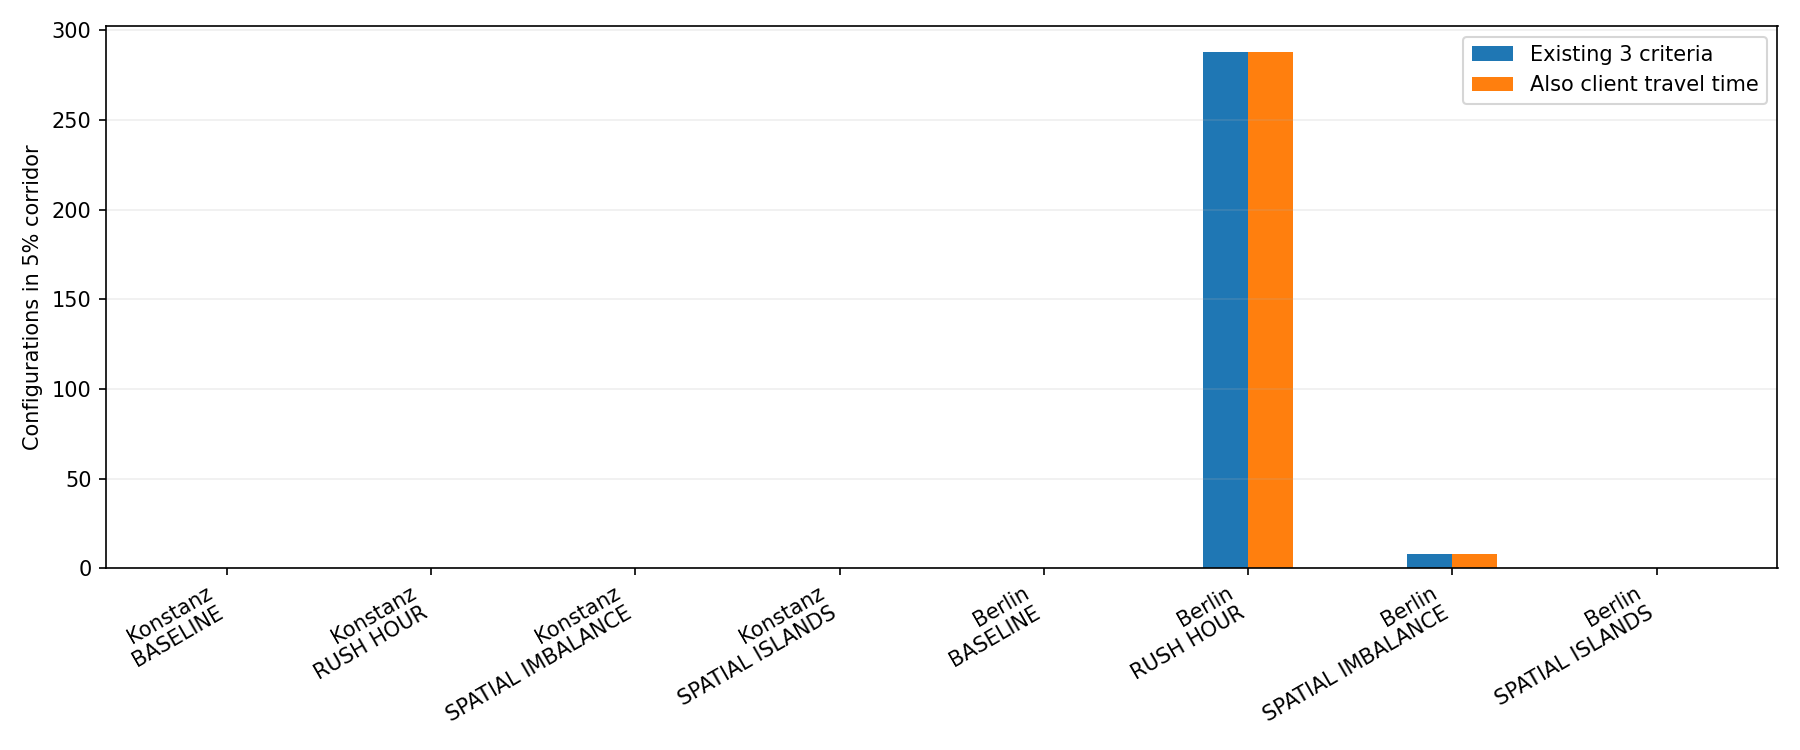
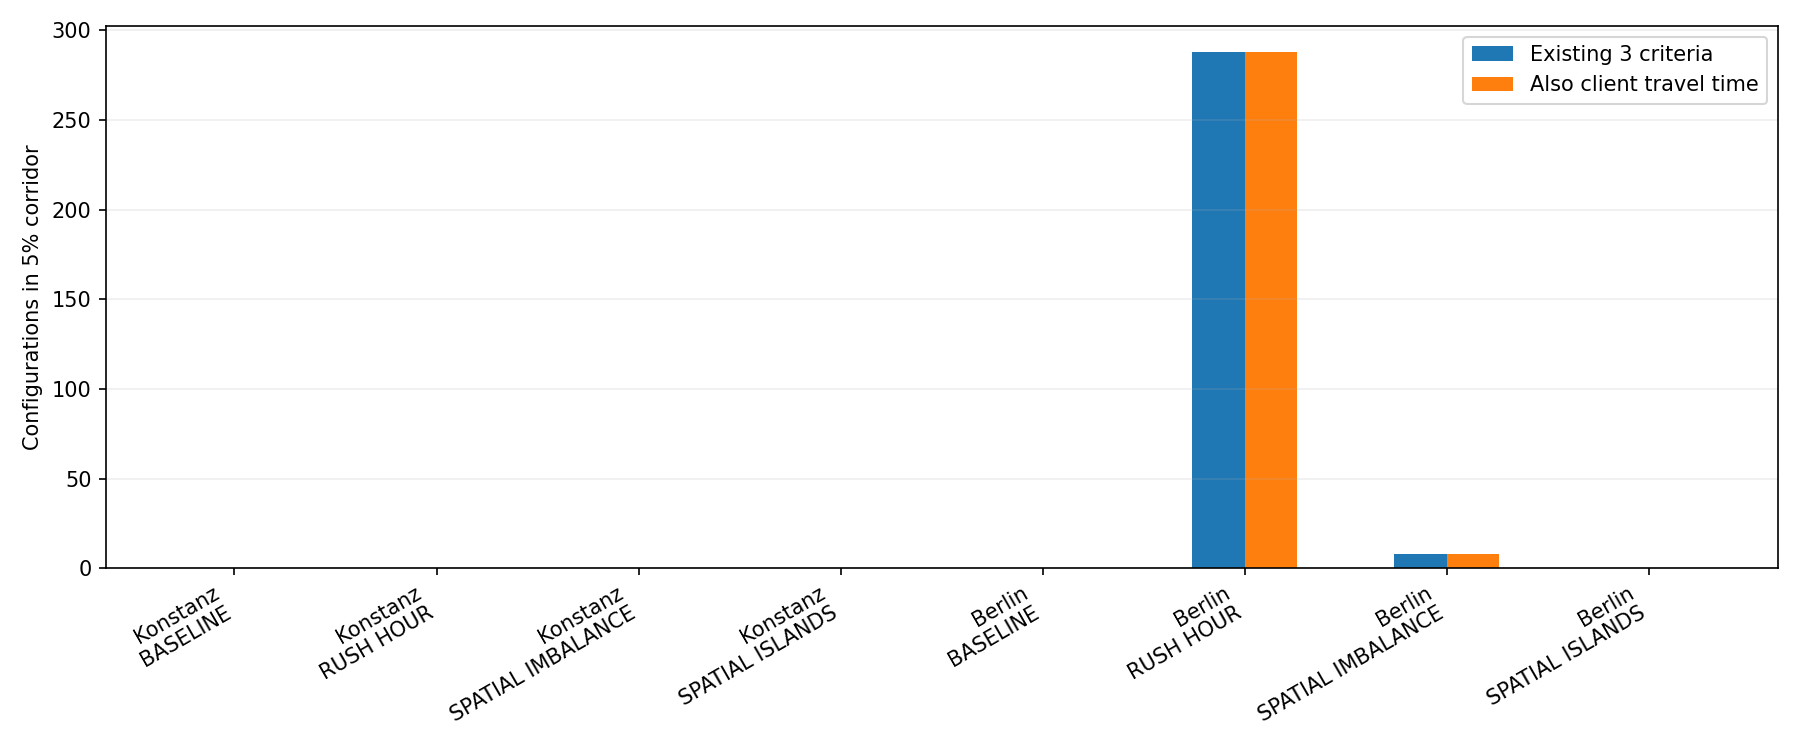
chore: seed stable = 10 seeds

diff --git a/mass-run-results_11.07-konstanz-berlin/analysis/report.html b/mass-run-results_11.07-konstanz-berlin/analysis/report.html
@@ -9042,9 +9042,8 @@
       <th>configurations</th>
       <th>currentPass</th>
       <th>withTravelTime</th>
-      <th>atLeastEightSeeds</th>
       <th>allSeeds</th>
-      <th>withTravelAtLeastEightSeeds</th>
+      <th>withTravelAllSeeds</th>
     </tr>
   </thead>
   <tbody>
@@ -9057,14 +9056,12 @@
       <td>0</td>
       <td>0</td>
       <td>0</td>
-      <td>0</td>
     </tr>
     <tr>
       <td>Konstanz</td>
       <td>RUSH_HOUR</td>
       <td>0</td>
       <td>360</td>
-      <td>0</td>
       <td>0</td>
       <td>0</td>
       <td>0</td>
@@ -9079,7 +9076,6 @@
       <td>0</td>
       <td>0</td>
       <td>0</td>
-      <td>0</td>
     </tr>
     <tr>
       <td>Konstanz</td>
@@ -9090,14 +9086,12 @@
       <td>0</td>
       <td>0</td>
       <td>0</td>
-      <td>0</td>
     </tr>
     <tr>
       <td>Berlin</td>
       <td>BASELINE</td>
       <td>0</td>
       <td>360</td>
-      <td>0</td>
       <td>0</td>
       <td>0</td>
       <td>0</td>
@@ -9112,14 +9106,12 @@
       <td>232</td>
       <td>216</td>
       <td>216</td>
-      <td>216</td>
     </tr>
     <tr>
       <td>Berlin</td>
       <td>SPATIAL_IMBALANCE</td>
       <td>0</td>
       <td>360</td>
-      <td>0</td>
       <td>0</td>
       <td>0</td>
       <td>0</td>
@@ -9134,7 +9126,6 @@
       <td>0</td>
       <td>0</td>
       <td>0</td>
-      <td>0</td>
     </tr>
     <tr>
       <td>Konstanz</td>
@@ -9145,14 +9136,12 @@
       <td>0</td>
       <td>0</td>
       <td>0</td>
-      <td>0</td>
     </tr>
     <tr>
       <td>Konstanz</td>
       <td>RUSH_HOUR</td>
       <td>5</td>
       <td>360</td>
-      <td>0</td>
       <td>0</td>
       <td>0</td>
       <td>0</td>
@@ -9167,14 +9156,12 @@
       <td>0</td>
       <td>0</td>
       <td>0</td>
-      <td>0</td>
     </tr>
     <tr>
       <td>Konstanz</td>
       <td>SPATIAL_ISLANDS</td>
       <td>5</td>
       <td>360</td>
-      <td>0</td>
       <td>0</td>
       <td>0</td>
       <td>0</td>
@@ -9189,7 +9176,6 @@
       <td>0</td>
       <td>0</td>
       <td>0</td>
-      <td>0</td>
     </tr>
     <tr>
       <td>Berlin</td>
@@ -9198,7 +9184,6 @@
       <td>360</td>
       <td>288</td>
       <td>288</td>
-      <td>284</td>
       <td>284</td>
       <td>284</td>
     </tr>
@@ -9211,7 +9196,6 @@
       <td>8</td>
       <td>0</td>
       <td>0</td>
-      <td>0</td>
     </tr>
     <tr>
       <td>Berlin</td>
@@ -9222,14 +9206,12 @@
       <td>0</td>
       <td>0</td>
       <td>0</td>
-      <td>0</td>
     </tr>
     <tr>
       <td>Konstanz</td>
       <td>BASELINE</td>
       <td>10</td>
       <td>360</td>
-      <td>0</td>
       <td>0</td>
       <td>0</td>
       <td>0</td>
@@ -9244,7 +9226,6 @@
       <td>0</td>
       <td>0</td>
       <td>0</td>
-      <td>0</td>
     </tr>
     <tr>
       <td>Konstanz</td>
@@ -9255,14 +9236,12 @@
       <td>0</td>
       <td>0</td>
       <td>0</td>
-      <td>0</td>
     </tr>
     <tr>
       <td>Konstanz</td>
       <td>SPATIAL_ISLANDS</td>
       <td>10</td>
       <td>360</td>
-      <td>0</td>
       <td>0</td>
       <td>0</td>
       <td>0</td>
@@ -9277,14 +9256,12 @@
       <td>0</td>
       <td>0</td>
       <td>0</td>
-      <td>0</td>
     </tr>
     <tr>
       <td>Berlin</td>
       <td>RUSH_HOUR</td>
       <td>10</td>
       <td>360</td>
-      <td>288</td>
       <td>288</td>
       <td>288</td>
       <td>288</td>
@@ -9299,14 +9276,12 @@
       <td>48</td>
       <td>48</td>
       <td>48</td>
-      <td>48</td>
     </tr>
     <tr>
       <td>Berlin</td>
       <td>SPATIAL_ISLANDS</td>
       <td>10</td>
       <td>360</td>
-      <td>0</td>
       <td>0</td>
       <td>0</td>
       <td>0</td>
@@ -9321,14 +9296,12 @@
       <td>0</td>
       <td>0</td>
       <td>0</td>
-      <td>0</td>
     </tr>
     <tr>
       <td>Konstanz</td>
       <td>RUSH_HOUR</td>
       <td>15</td>
       <td>360</td>
-      <td>0</td>
       <td>0</td>
       <td>0</td>
       <td>0</td>
@@ -9343,7 +9316,6 @@
       <td>20</td>
       <td>0</td>
       <td>0</td>
-      <td>0</td>
     </tr>
     <tr>
       <td>Konstanz</td>
@@ -9352,16 +9324,14 @@
       <td>360</td>
       <td>64</td>
       <td>64</td>
-      <td>32</td>
       <td>24</td>
-      <td>32</td>
+      <td>24</td>
     </tr>
     <tr>
       <td>Berlin</td>
       <td>BASELINE</td>
       <td>15</td>
       <td>360</td>
-      <td>0</td>
       <td>0</td>
       <td>0</td>
       <td>0</td>
@@ -9376,7 +9346,6 @@
       <td>288</td>
       <td>288</td>
       <td>288</td>
-      <td>288</td>
     </tr>
     <tr>
       <td>Berlin</td>
@@ -9387,14 +9356,12 @@
       <td>72</td>
       <td>72</td>
       <td>72</td>
-      <td>72</td>
     </tr>
     <tr>
       <td>Berlin</td>
       <td>SPATIAL_ISLANDS</td>
       <td>15</td>
       <td>360</td>
-      <td>0</td>
       <td>0</td>
       <td>0</td>
       <td>0</td>

diff --git a/mass-run-analysis/analyze_mass_run.py b/mass-run-analysis/analyze_mass_run.py
@@ -1042,11 +1042,10 @@ def write_extended_analysis(
     for threshold in [0, 5, 10, 15]:
         grouped = seed_pass.groupby(SCENARIO_COLS, dropna=False).agg(
             configurations=(f"seedCurrentPass{threshold}", "size"),
-            atLeastEightSeeds=(f"seedCurrentPass{threshold}", lambda s: int((s >= 0.8).sum())),
             allSeeds=(f"seedCurrentPass{threshold}", lambda s: int((s >= 1.0).sum())),
-            withTravelAtLeastEightSeeds=(
+            withTravelAllSeeds=(
                 f"seedExtendedPass{threshold}",
-                lambda s: int((s >= 0.8).sum()),
+                lambda s: int((s >= 1.0).sum()),
             ),
         )
         grouped["thresholdPct"] = threshold
@@ -2253,12 +2252,16 @@ def plot_crossover_robustness(
     merged = mean.merge(seeds, on=SCENARIO_COLS + ["thresholdPct"], how="inner")
     labels = scenario_labels(merged)
     x = np.arange(len(merged))
-    width = 0.22
+    width = 0.26
     fig, ax = plt.subplots(figsize=(12, 5.5))
-    ax.bar(x - 1.5 * width, merged["currentPass"], width, label="Mean passes")
-    ax.bar(x - 0.5 * width, merged["atLeastEightSeeds"], width, label="Passes in >=8/10 seeds")
-    ax.bar(x + 0.5 * width, merged["allSeeds"], width, label="Passes in all seeds")
-    ax.bar(x + 1.5 * width, merged["withTravelAtLeastEightSeeds"], width, label=">=8/10 incl. travel time")
+    ax.bar(x - width, merged["currentPass"], width, label="Mean passes")
+    ax.bar(x, merged["allSeeds"], width, label="Passes in all 10 seed pairs")
+    ax.bar(
+        x + width,
+        merged["withTravelAllSeeds"],
+        width,
+        label="All 10 seed pairs incl. travel time",
+    )
     ax.set_ylabel("Configurations")
     ax.set_xticks(x, labels, rotation=30, ha="right")
     ax.legend(ncol=2)
@@ -2638,8 +2641,7 @@ def write_report(base: Path, overview: dict, plot_files: list[dict[str, str]]) -
                 "crossover_summary.csv",
                 [
                     "city", "spawnScenario", "thresholdPct", "configurations", "currentPass",
-                    "withTravelTime", "atLeastEightSeeds", "allSeeds",
-                    "withTravelAtLeastEightSeeds",
+                    "withTravelTime", "allSeeds", "withTravelAllSeeds",
                 ],
             ),
             report_csv_table(

diff --git a/mass-run-analysis/README.md b/mass-run-analysis/README.md
@@ -30,7 +30,7 @@ If present next to the input CSV, these files are analyzed automatically:
 - `tables/parameter_level_summary.csv` and `parameter_effect_summary.csv`: values and thesis contrasts for radius, hops, strategy, topology, and roaming
 - `tables/interaction_k_radius_roaming.csv` and `interaction_k_shortcuts.csv`
 - `tables/moderation_seed_contrasts.csv` and `moderation_summary.csv`: paired seed-level difference-in-differences and 95% confidence intervals
-- `tables/crossover_summary.csv`: corridor counts, travel-time control, and seed stability
+- `tables/crossover_summary.csv`: corridor counts, travel-time control, and stability across all 10 seed pairs
 - `tables/time_window_selected_configs.csv`: scenario-specific P2P Minimax selections
 - `tables/time_window_result_summary.csv`: central and selected-P2P values for the whole run and blocks 10--85
 - `tables/spatial_result_summary.csv`: pickup gaps and spatial waiting-time range per roaming mode
